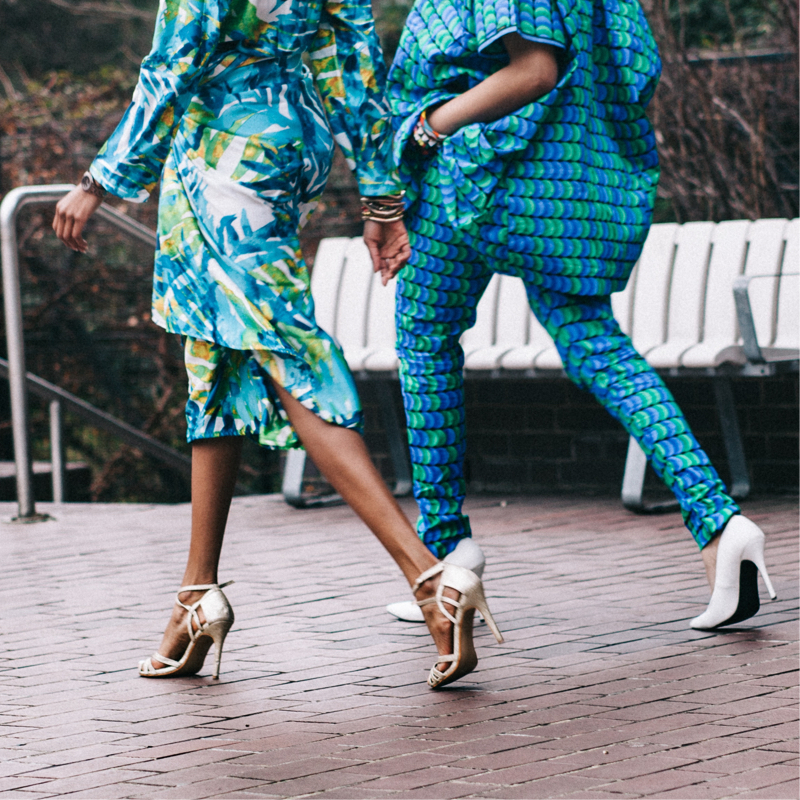
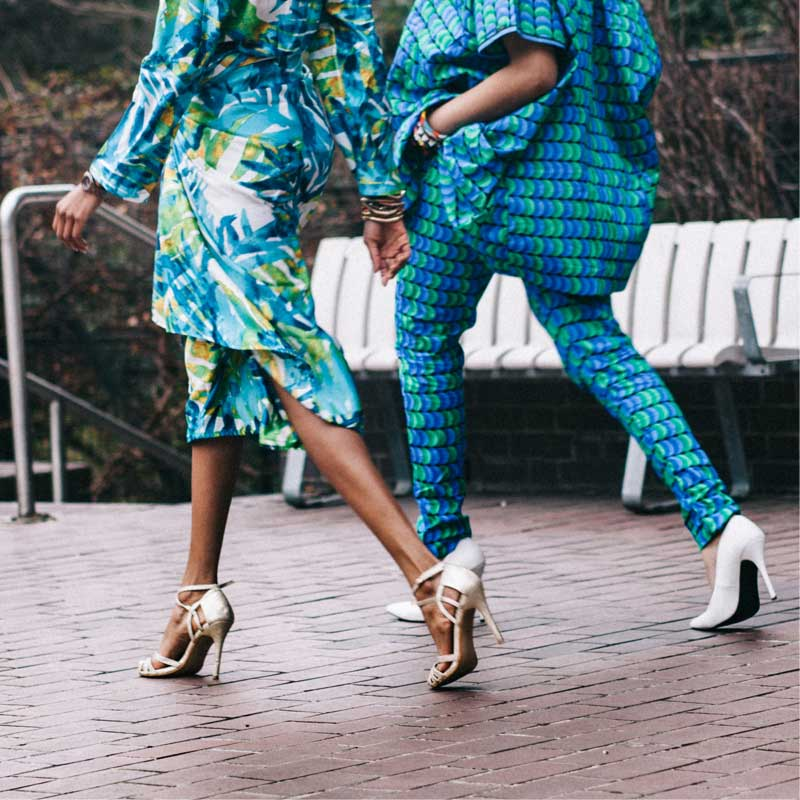
optimized images

diff --git a/index.html b/index.html
@@ -81,7 +81,7 @@
           <li>
             <img
               src="./assets/image-1.jpg"
-              alt="Two fashionable women walking away from the camera"
+              alt="Two models in brightly patterned clothing walking away from the camera"
             />
           </li>
           <li class="gal2">
@@ -103,7 +103,7 @@
         <figure class="fig1">
           <img
             src="./assets/image-6.jpg"
-            alt="Young man laughing and drinking coffee"
+            alt="Young man laughing and drinking coffee in a cafe"
           />
         </figure>
         <article class="highlight">

diff --git a/styles.css b/styles.css
@@ -321,6 +321,8 @@ html {
 body {
   font-family: "Roboto", sans-serif;
   font-size: 2rem;
+  -webkit-font-smoothing: antialiased;
+  -moz-osx-font-smoothing: grayscale;
 }
 
 .wrapper {
